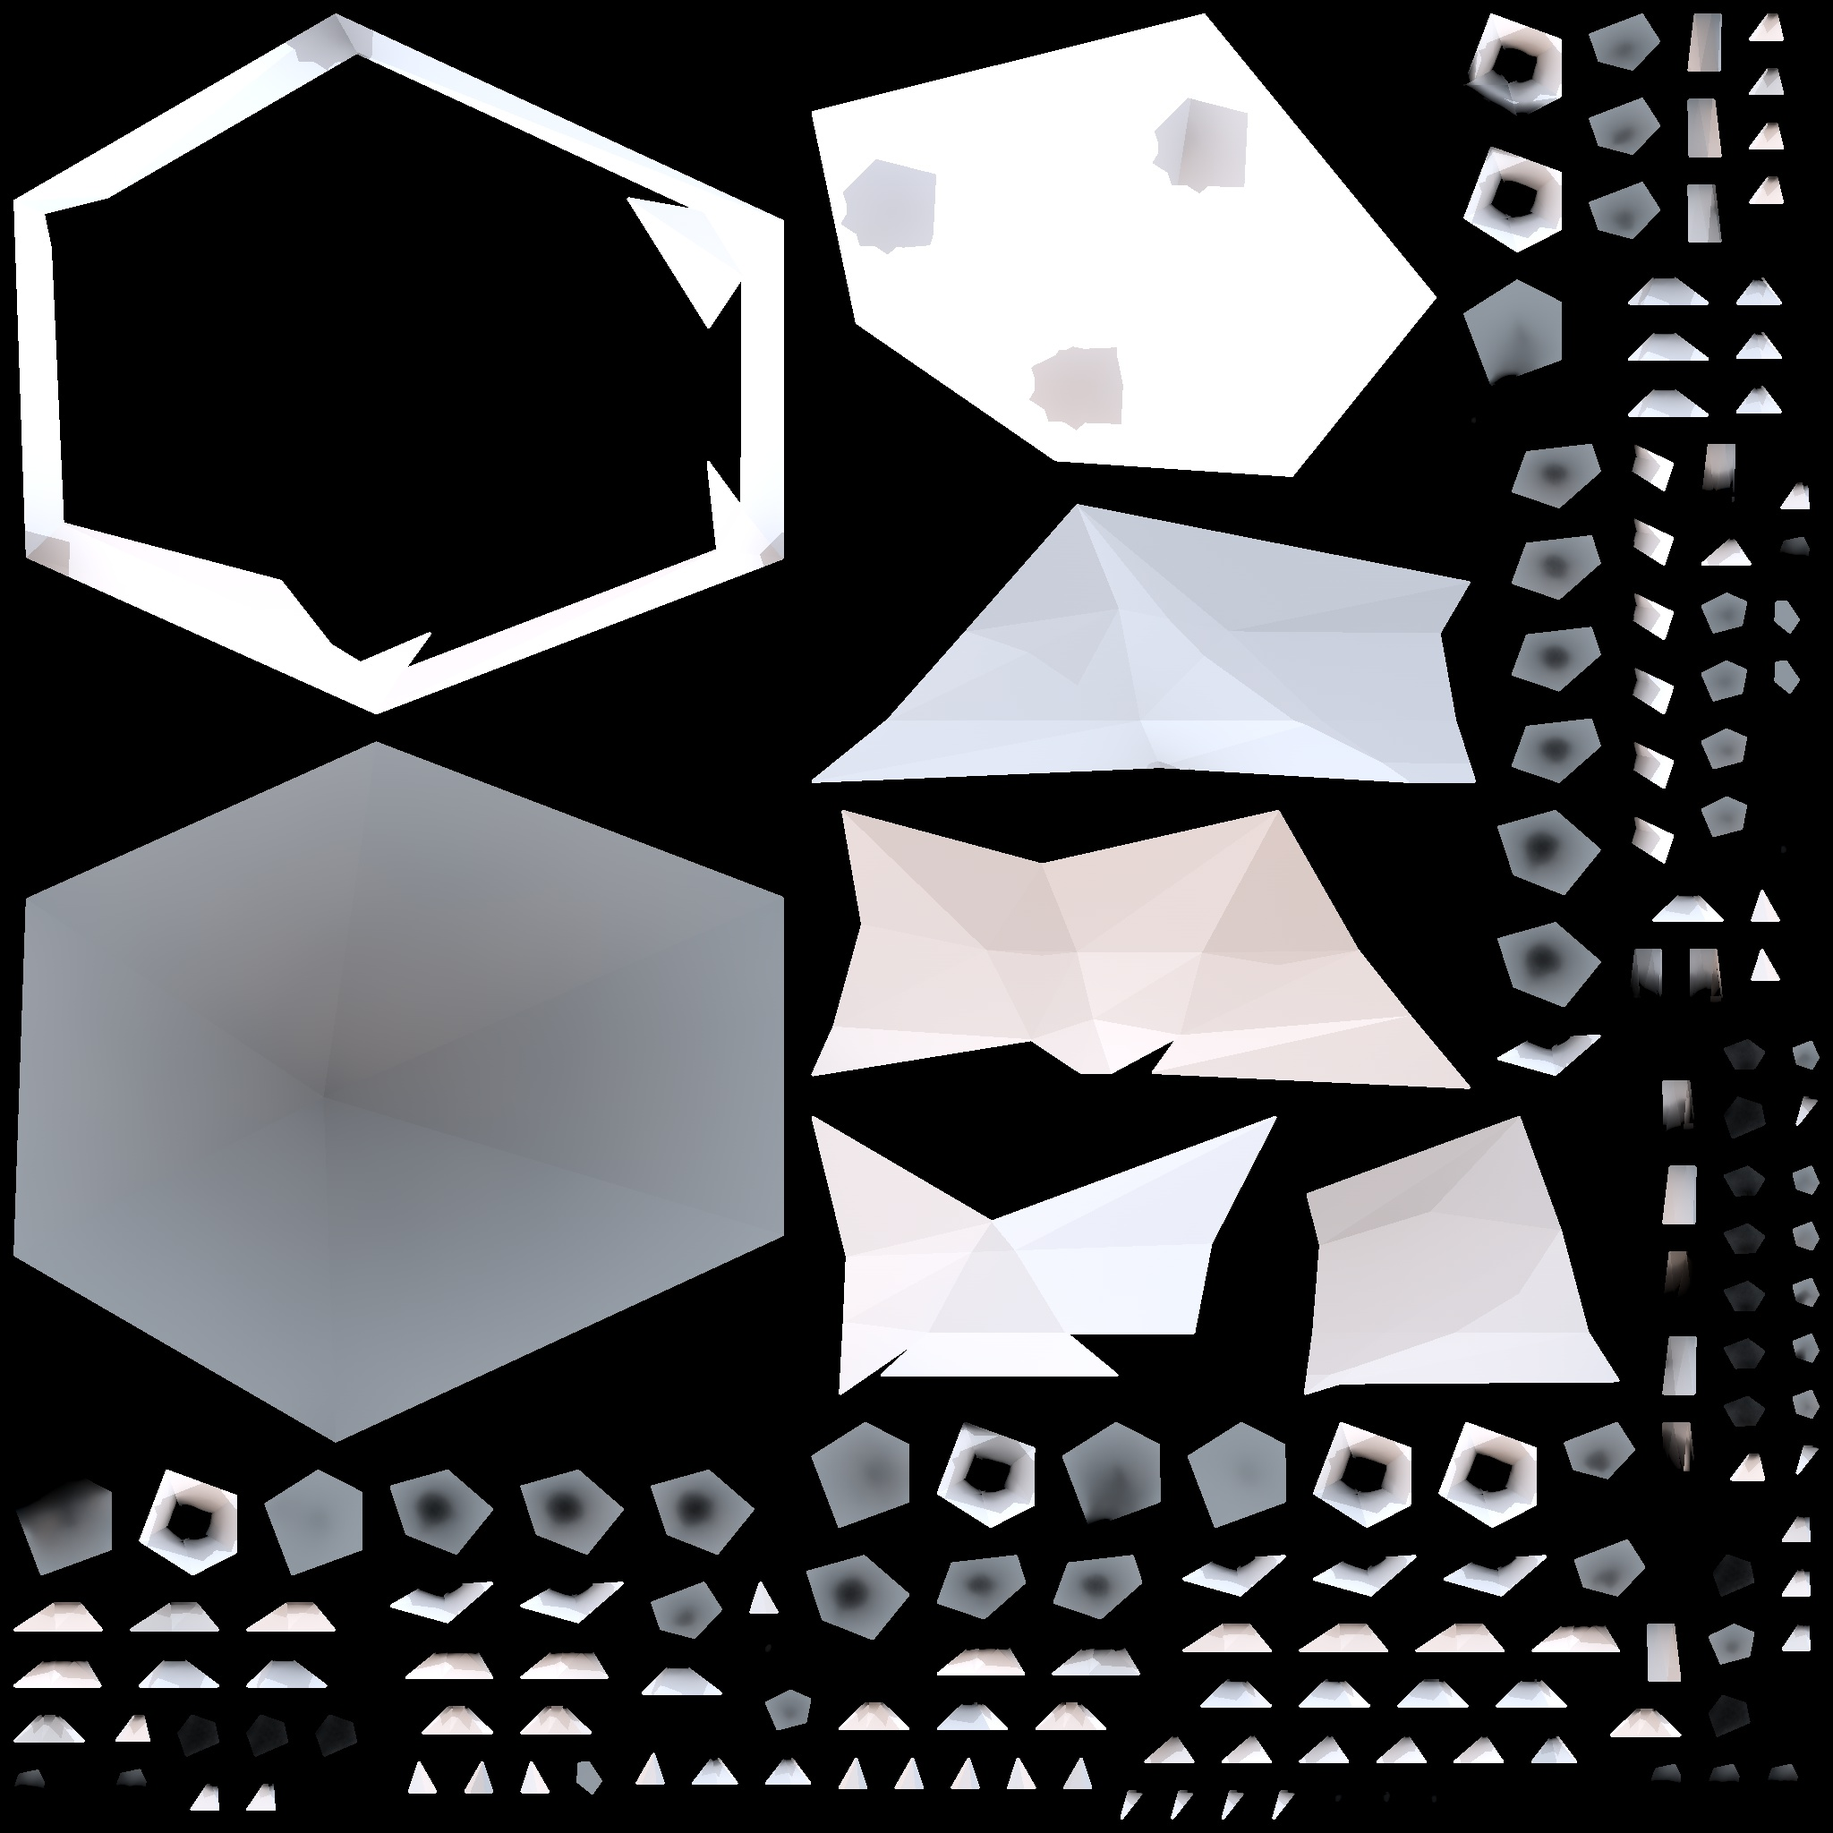
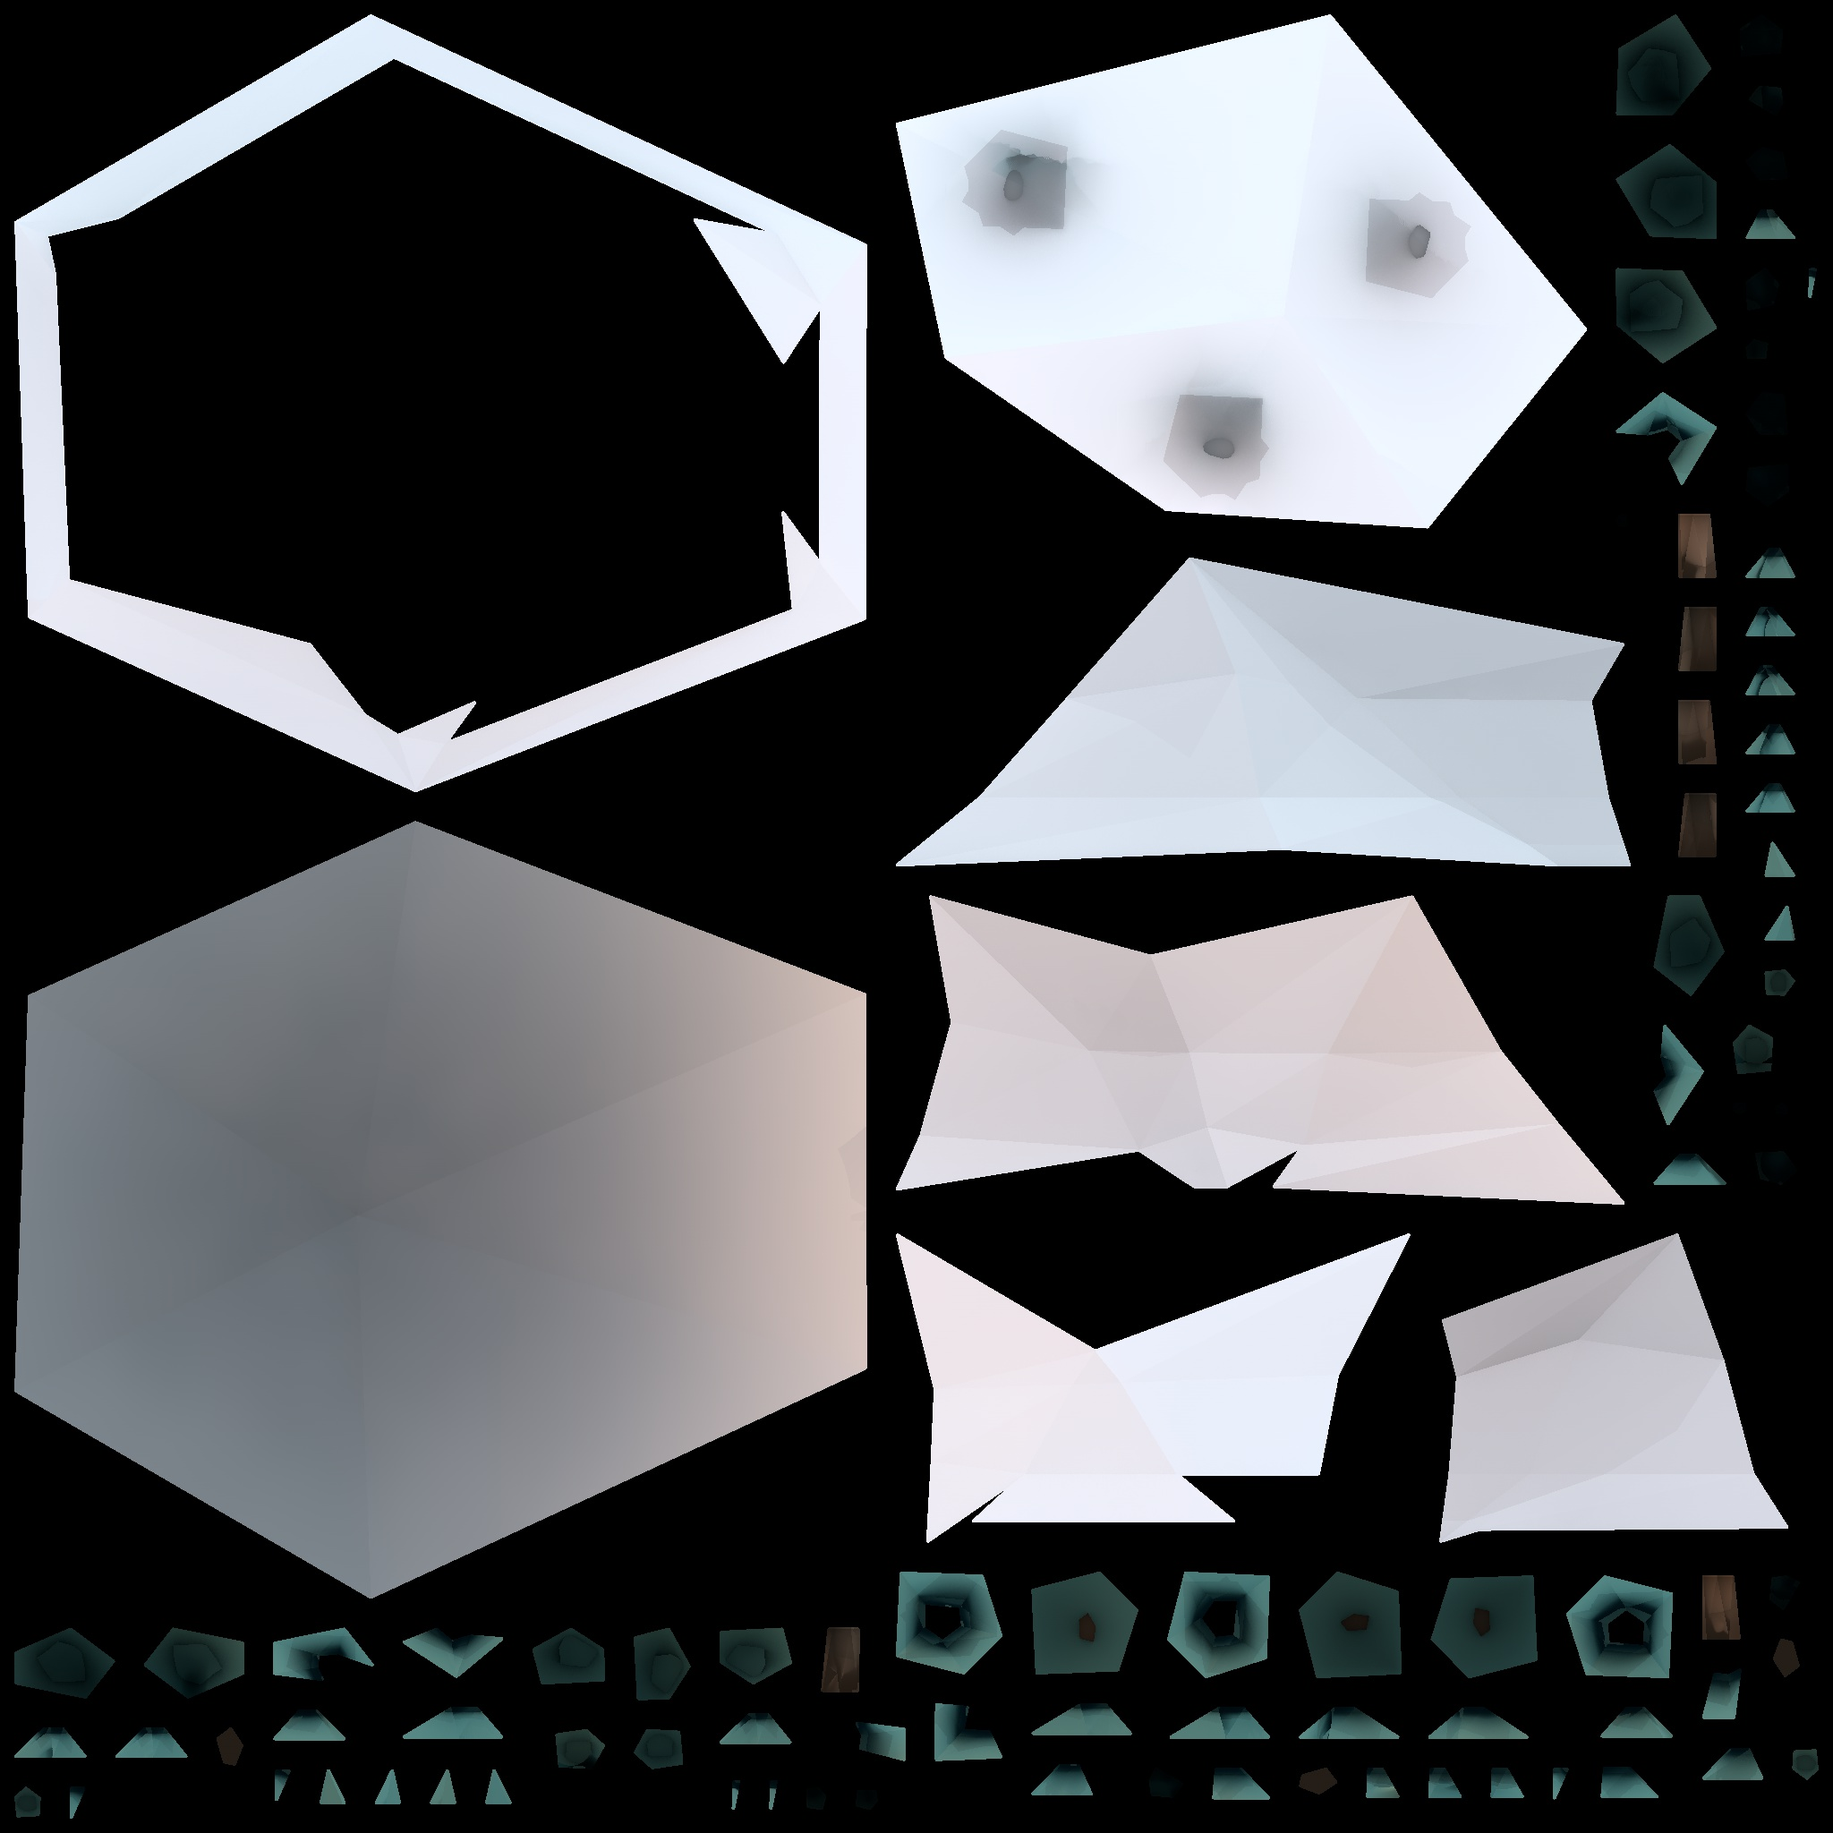
Implement track directional segments

diff --git a/src/components/game/engine/3d/objects/track/index.js b/src/components/game/engine/3d/objects/track/index.js
@@ -3,31 +3,28 @@ import { invokeMap, call, zipObject, keys } from 'lodash';
 
 import objectCreators from './objects';
 import createStraightSegment from './straight';
-import { nextOffset } from '../../../physics/objects/track/straight';
+import createLeftSegment from './left';
+import createRightSegment from './right';
 import { loadTexture } from '../../utils';
 import groundTexture from './textures/ground.jpg';
 
-import { TRACK_SEGMENT_STRAIGHT } from '../../..';
-
 export default async function createTrack(trackData) {
-  const objectInstances = zipObject(keys(objectCreators), await Promise.all(invokeMap(objectCreators, call, '')));
-  const groundMaterial = new THREE.MeshBasicMaterial({ map: await loadTexture(groundTexture) });
-  const straightSegment = await createStraightSegment(objectInstances, groundMaterial);
+  const objects = zipObject(keys(objectCreators), await Promise.all(invokeMap(objectCreators, call, '')));
+  const materials = {
+    ground: new THREE.MeshBasicMaterial({ map: await loadTexture(groundTexture) }),
+  };
+  const segments = {
+    straight: await createStraightSegment(objects, materials),
+    left: await createLeftSegment(objects, materials),
+    right: await createRightSegment(objects, materials),
+  };
   const track = new THREE.Group();
 
-  trackData.forEach((segmentType, index) => {
-    let segment;
-    const offsetY = index * nextOffset.y;
+  trackData.forEach(({ type, offset, clockwiseTurns }) => {
+    const segment = segments[type].clone();
 
-    switch (segmentType) {
-      case TRACK_SEGMENT_STRAIGHT:
-        segment = straightSegment.clone();
-        break;
-      default:
-        throw new Error('Wrong segment type');
-    }
-
-    segment.position.setZ(-offsetY);
+    segment.position.set(offset.x, 0, -offset.y);
+    segment.rotation.set(0, -clockwiseTurns / 2 * Math.PI, 0);
     track.add(segment);
   });
 

diff --git a/src/components/game/engine/track.js b/src/components/game/engine/track.js
@@ -1,0 +1,57 @@
+import { last } from 'lodash';
+
+import segmentsData from './segmentsData';
+
+export const TRACK_SEGMENT_STRAIGHT = 'straight';
+export const TRACK_SEGMENT_LEFT = 'left';
+export const TRACK_SEGMENT_RIGHT = 'right';
+
+
+export function turnClockwise({ x, y }, turns) {
+  const absTurns = turns > 0 ? turns % 4 : 4 + turns % 4;
+
+  if (absTurns === 1) {
+    return { x: y, y: -x };
+  }
+
+  if (absTurns === 2) {
+    return { x: -x, y: -y };
+  }
+
+  if (absTurns === 3) {
+    return { x: -y, y: x };
+  }
+
+  return { x, y };
+}
+
+
+export default function createTrack(trackData) {
+  return trackData
+    .map((segmentType) => ({
+      type: segmentType,
+      ...segmentsData[segmentType],
+    }))
+    .reduce((segments, segment) => {
+      const prevSegment = last(segments);
+
+      if (prevSegment) {
+        const realOffset = turnClockwise(prevSegment.nextSegment.offset, prevSegment.clockwiseTurns);
+
+        return segments.concat({
+          ...segment,
+          offset: {
+            x: prevSegment.offset.x + realOffset.x,
+            y: prevSegment.offset.y + realOffset.y,
+          },
+          clockwiseTurns: prevSegment.clockwiseTurns + prevSegment.nextSegment.clockwiseTurns,
+        });
+      }
+
+      return segments.concat({
+        ...segment,
+        offset: { x: 0, y: 0 },
+        clockwiseTurns: 0,
+      });
+    }, []);
+}

diff --git a/src/components/game/engine/segmentsData/straight.js b/src/components/game/engine/segmentsData/straight.js
@@ -1,0 +1,22 @@
+export const objectsData = [
+  { type: 'rock', position: { x: -42.0559, y: -1.27705 }, rotation: -90 },
+  { type: 'rock', position: { x: -42.0559, y: 100.766 }, rotation: 90 },
+  { type: 'rock', position: { x: 41.4711, y: 98.8481 }, rotation: 90 },
+  { type: 'rock', position: { x: 41.4711, y: 0 }, rotation: 90 },
+  { type: 'smallRock', position: { x: 41.2628, y: 66.693 }, rotation: -90 },
+  { type: 'smallRock', position: { x: 41.2628, y: 166.16 }, rotation: 90 },
+  { type: 'smallRock', position: { x: 41.9085, y: 132.922 }, rotation: 90 },
+  { type: 'smallRock', position: { x: 41.9085, y: 33.4556 }, rotation: 90 },
+  { type: 'smallRock', position: { x: -43.7682, y: 132.922 }, rotation: 90 },
+  { type: 'smallRock', position: { x: -43.7682, y: 64.2056 }, rotation: 90 },
+  { type: 'smallRock', position: { x: -44.4139, y: 166.16 }, rotation: -90 },
+  { type: 'smallRock', position: { x: -41.2053, y: 33.0846 }, rotation: -90 },
+  { type: 'tree', position: { x: 20, y: 5 }, rotation: 90 },
+  { type: 'tree', position: { x: -15, y: 80 }, rotation: 0 },
+  { type: 'tree', position: { x: 3, y: 150 }, rotation: -90 },
+];
+
+export const nextSegment = {
+  offset: { x: 0, y: 200 },
+  clockwiseTurns: 0,
+};

diff --git a/src/components/game/engine/physics/objects/track/objects/smallRock/index.js b/src/components/game/engine/physics/objects/track/objects/smallRock/index.js
@@ -1,19 +1,18 @@
 import * as CANNON from 'cannon';
 
+import { material } from '../rock';
 
-export const material = new CANNON.Material();
 
 const boxes = [
-  { size: [14, 6, 2], offset: [9, 3, -12.5], rotation: -0.43 },
-  { size: [11, 6, 2], offset: [-12, 3, -13], rotation: 0.52 },
-  { size: [12, 6, 2], offset: [-10, 3, 12], rotation: -0.43 },
-  { size: [12, 6, 2], offset: [10, 3, 12], rotation: 0.42 },
-  { size: [2, 6, 9], offset: [20.5, 3, 0], rotation: 0 },
-  { size: [2, 6, 9], offset: [-20.5, 3, 0], rotation: 0 },
+  { size: [11, 6, 2], offset: [7, 3, -7.5], rotation: -0.41 },
+  { size: [7.5, 6, 2], offset: [-8, 3, -8], rotation: 0.48 },
+  { size: [8, 6, 2], offset: [-7, 3, 8], rotation: -0.4 },
+  { size: [10, 6, 2], offset: [8, 3, 8], rotation: 0.35 },
+  { size: [2, 6, 6], offset: [16, 3, 1], rotation: 0 },
+  { size: [2, 6, 7], offset: [-13, 3, 0.5], rotation: 0.05 },
 ];
 
-
-export default function createRock({ position, rotation, clockwiseTurns }) {
+export default function createSmallRock({ position, rotation, clockwiseTurns }) {
   const rock = new CANNON.Body({
     position: new CANNON.Vec3(position.x, 0, -position.y),
     material,

diff --git a/src/components/game/engine/segmentsData/right.js b/src/components/game/engine/segmentsData/right.js
@@ -1,0 +1,20 @@
+export const objectsData = [
+  { type: 'rock', position: { x: -42.0559, y: -1.27705 }, rotation: -90 },
+  { type: 'rock', position: { x: 112.907, y: 202.843 }, rotation: 6.84001 },
+  { type: 'rock', position: { x: 10.9203, y: 158.846 }, rotation: 47.4766 },
+  { type: 'rock', position: { x: 76.396, y: 195.541 }, rotation: -175.817 },
+  { type: 'rock', position: { x: -38.4226, y: 105.338 }, rotation: -112.319 },
+  { type: 'rock', position: { x: 104.05, y: 83.1658 }, rotation: 25.6042 },
+  { type: 'rock', position: { x: 41.4711, y: 0 }, rotation: -90 },
+  { type: 'smallRock', position: { x: 72.6721, y: 62.4776 }, rotation: -128.502 },
+  { type: 'smallRock', position: { x: -16.295, y: 131.367 }, rotation: 42.0683 },
+  { type: 'smallRock', position: { x: 52.2666, y: 35.125 }, rotation: 66.8216 },
+  { type: 'smallRock', position: { x: 44.0506, y: 180.307 }, rotation: 35.1951 },
+  { type: 'smallRock', position: { x: -43.7789, y: 64.2056 }, rotation: 79.5349 },
+  { type: 'smallRock', position: { x: -41.2053, y: 33.0846 }, rotation: -95.5863 },
+];
+
+export const nextSegment = {
+  offset: { x: 143, y: 150 },
+  clockwiseTurns: 1,
+};

diff --git a/src/components/game/engine/segmentsData/left.js b/src/components/game/engine/segmentsData/left.js
@@ -1,0 +1,20 @@
+export const objectsData = [
+  { type: 'rock', position: { x: 46.354, y: 74.9392 }, rotation: 94.2 },
+  { type: 'rock', position: { x: 9.65944, y: 140.415 }, rotation: -42.5 },
+  { type: 'rock', position: { x: 53.6561, y: 38.4287 }, rotation: -83.2 },
+  { type: 'rock', position: { x: -66.021, y: 47.2848 }, rotation: -64.4 },
+  { type: 'rock', position: { x: -52.7517, y: 185.568 }, rotation: 157.7 },
+  { type: 'smallRock', position: { x: -114.062, y: 99.0686 }, rotation: -23.2 },
+  { type: 'smallRock', position: { x: -17.8195, y: 167.63 }, rotation: -47.9 },
+  { type: 'smallRock', position: { x: -52.0717, y: 10.5967 }, rotation: -76.9 },
+  { type: 'smallRock', position: { x: -86.7093, y: 78.6631 }, rotation: 141.5 },
+  { type: 'smallRock', position: { x: 31.1205, y: 107.285 }, rotation: -54.8 },
+  { type: 'smallRock', position: { x: 55.2016, y: 1.16933 }, rotation: 91.8 },
+  { type: 'smallRock', position: { x: -116.102, y: 192.541 }, rotation: 174.4 },
+  { type: 'smallRock', position: { x: -84.9812, y: 195.114 }, rotation: -10.5 },
+];
+
+export const nextSegment = {
+  offset: { x: -148, y: 150 },
+  clockwiseTurns: -1,
+};

diff --git a/src/components/game/engine/physics/index.js b/src/components/game/engine/physics/index.js
@@ -1,5 +1,4 @@
 import * as CANNON from 'cannon';
-import { clamp } from 'lodash';
 
 import createGround from './objects/ground';
 import createPlayer from './objects/player';
@@ -26,9 +25,9 @@ export default class Physics {
 
     window.addEventListener('keydown', ({ key }) => {
       if (key === 'ArrowLeft') {
-        this.rotation = -1;
-      } else if (key === 'ArrowRight') {
         this.rotation = 1;
+      } else if (key === 'ArrowRight') {
+        this.rotation = -1;
       }
     });
 
@@ -38,9 +37,9 @@ export default class Physics {
   }
 
   update() {
-    this.realRotation = clamp(this.realRotation + this.rotation * 0.05, -1, 1);
-    this.player.quaternion.setFromAxisAngle(new CANNON.Vec3(0, -0.5, -0.5), 0.2 * Math.PI * this.realRotation);
-    this.player.applyLocalForce(new CANNON.Vec3(this.realRotation * 60, 0, -150), new CANNON.Vec3(0, 0, 0));
+    this.realRotation = this.realRotation + this.rotation * 0.03;
+    this.player.quaternion.setFromAxisAngle(new CANNON.Vec3(0, 1, 0), this.realRotation);
+    this.player.applyLocalForce(new CANNON.Vec3(0, 0, -1500), new CANNON.Vec3(0, 0, 0));
     this.world.step(1 / 60);
   }
 }

diff --git a/src/components/game/engine/physics/objects/track/index.js b/src/components/game/engine/physics/objects/track/index.js
@@ -1,17 +1,23 @@
 import { flatten } from 'lodash';
-import createStraightSegment, { nextOffset } from './straight';
-import { TRACK_SEGMENT_STRAIGHT } from '../../..';
+
+import objectCreators from './objects';
+import { turnClockwise } from '../../../track';
 
 
 export default function createTrack(trackData) {
-  return flatten(trackData.map((segmentType, index) => {
-    const offsetY = index * nextOffset.y;
+  return flatten(trackData
+    .map(({ objectsData, offset, clockwiseTurns }) => objectsData
+      .map(data => {
+        const realPositon = turnClockwise(data.position, clockwiseTurns);
 
-    switch (segmentType) {
-      case TRACK_SEGMENT_STRAIGHT:
-        return createStraightSegment(offsetY);
-      default:
-        return [];
-    }
-  }));
+        return {
+          ...data,
+          position: {
+            x: realPositon.x + offset.x,
+            y: realPositon.y + offset.y,
+          },
+          clockwiseTurns,
+        };
+      })))
+    .map(data => objectCreators[data.type](data));
 }

diff --git a/src/components/game/engine/3d/index.js b/src/components/game/engine/3d/index.js
@@ -39,6 +39,11 @@ export default class Engine3D {
     this.sky = await createSky();
     this.track = await createTrack(this.trackData);
 
+    // this.camera.position.set(0, 500, -100);
+    // this.camera.lookAt(new THREE.Vector3(0, 0, -100));
+    this.camera.position.set(0, 5, 15);
+    this.player.add(this.camera);
+
     this.scene.add(this.player, this.sky, this.track);
   }
 
@@ -61,7 +66,6 @@ export default class Engine3D {
 
   render = () => {
     this.updatePhysics(['player']);
-    this.camera.position.copy(this.player.position.clone().add(new THREE.Vector3(0, 5, 15)));
     this.sky.position.copy(this.player.position);
     this.renderer.render(this.scene, this.camera);
     this.cannonDebugRenderer.update();

diff --git a/src/components/game/engine/index.js b/src/components/game/engine/index.js
@@ -1,12 +1,22 @@
 import Physics from './physics';
 import Engine3D from './3d';
+import createTrack, {
+  TRACK_SEGMENT_STRAIGHT,
+  TRACK_SEGMENT_LEFT,
+  TRACK_SEGMENT_RIGHT,
+} from './track';
 
-export const TRACK_SEGMENT_STRAIGHT = 0;
-
+const TRACK = [
+  TRACK_SEGMENT_STRAIGHT,
+  TRACK_SEGMENT_STRAIGHT,
+  TRACK_SEGMENT_LEFT,
+  TRACK_SEGMENT_RIGHT,
+  TRACK_SEGMENT_STRAIGHT,
+];
 
 export default class Engine {
   constructor(renderTarget) {
-    const track = Array(3).fill(TRACK_SEGMENT_STRAIGHT);
+    const track = createTrack(TRACK);
 
     this.physics = new Physics(track);
     this.engine3d = new Engine3D(renderTarget, this.physics, track);

diff --git a/src/components/game/engine/physics/objects/track/objects/oblongRock/index.js b/src/components/game/engine/physics/objects/track/objects/oblongRock/index.js
@@ -10,7 +10,7 @@ const boxes = [
 ];
 
 
-export default function createOblongRock({ position, rotation }) {
+export default function createOblongRock({ position, rotation, clockwiseTurns }) {
   const rock = new CANNON.Body({
     position: new CANNON.Vec3(position.x, 5, -position.y),
     material,
@@ -28,7 +28,7 @@ export default function createOblongRock({ position, rotation }) {
     );
   });
 
-  rock.quaternion.setFromAxisAngle(new CANNON.Vec3(0, 1, 0), rotation / 180 * Math.PI);
+  rock.quaternion.setFromAxisAngle(new CANNON.Vec3(0, 1, 0), rotation / 180 * Math.PI + clockwiseTurns / 2 * Math.PI);
 
   return rock;
 }

diff --git a/src/components/game/engine/3d/objects/track/objects/smallRock/index.js b/src/components/game/engine/3d/objects/track/objects/smallRock/index.js
@@ -1,0 +1,13 @@
+import * as THREE from 'three';
+
+import { parseObject, loadTexture } from '../../../../utils';
+import rockTexture from './smallRock.jpg';
+import rockGeometry from './smallRock.json';
+
+
+export default async function createSmallRock() {
+  const [geometry, texture] = await Promise.all([parseObject(rockGeometry), loadTexture(rockTexture)]);
+  const material = new THREE.MeshBasicMaterial({ map: texture });
+
+  return new THREE.Mesh(geometry, material);
+}
